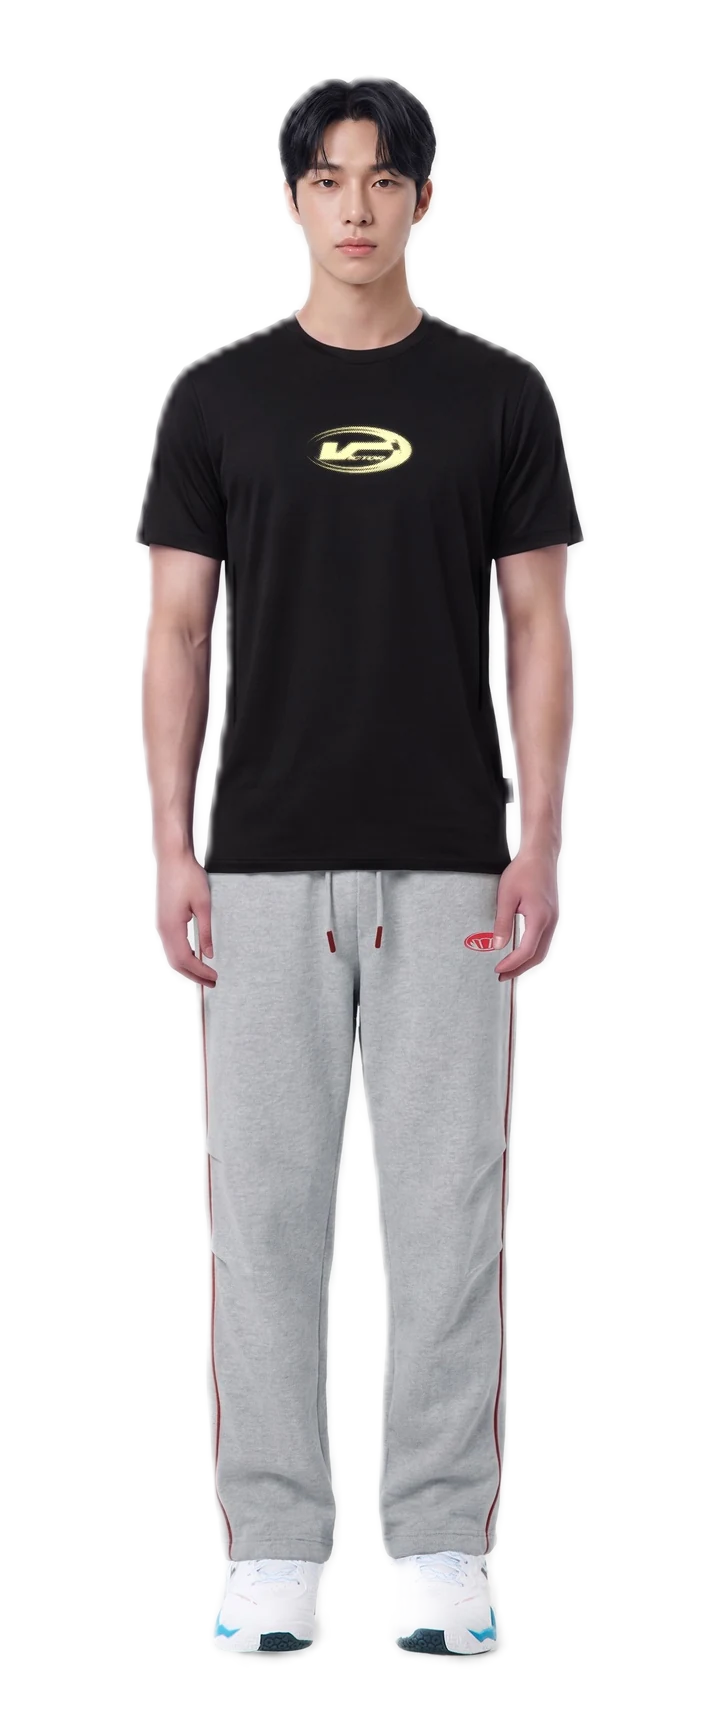
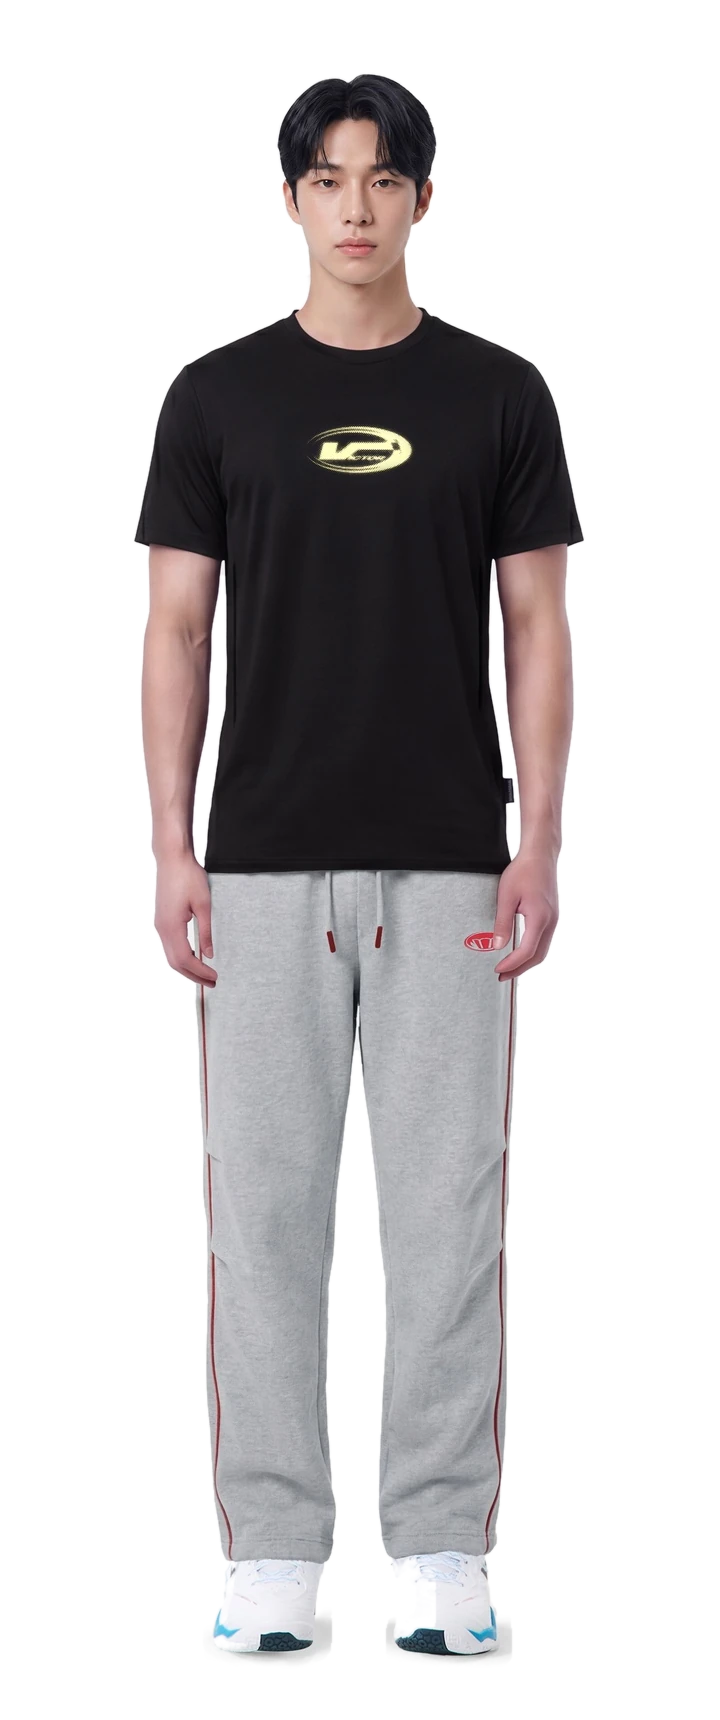
단체복: 룩 사진 가장자리 원본 해상도로 다시 따기(어깨 자글거림 제거), 머리 고정은 얼굴 주변 타원만
Claude-Session: https://claude.ai/code/session_013Nwr6bVcfqqiCbu23HBSRs

diff --git a/victor-teamwear.js b/victor-teamwear.js
@@ -6,7 +6,7 @@
 (function () {
   'use strict';
   if (window.VictorTeamwear) return;
-  const VERSION = '20261123-tw4';
+  const VERSION = '20261123-tw5';
   const SCRIPT = document.currentScript;
   const BASE = SCRIPT && SCRIPT.src ? new URL('.', SCRIPT.src).href : location.href;
   const W = 1080, H = 1350;                                   // 결과 이미지 4:5 (SNS·카톡 공유용)
@@ -230,13 +230,16 @@
       }
       const hy = (CV.headY || {})[g];
       if (hy && A.id !== ref.id) {
-        const h = document.createElement('canvas'); h.width = cw; h.height = hy + 12; const hx = h.getContext('2d');
-        hx.drawImage(ir, 0, 0, cw, hy + 12, 0, 0, cw, hy + 12);
-        const gr = hx.createLinearGradient(0, hy - 22, 0, hy + 10); gr.addColorStop(0, 'rgba(0,0,0,1)'); gr.addColorStop(1, 'rgba(0,0,0,0)');
-        hx.globalCompositeOperation = 'destination-in'; hx.fillStyle = gr; hx.fillRect(0, 0, cw, hy + 12);
-        x.globalCompositeOperation = 'destination-out'; const er = x.createLinearGradient(0, hy - 22, 0, hy + 10);
-        er.addColorStop(0, 'rgba(0,0,0,1)'); er.addColorStop(1, 'rgba(0,0,0,0)'); x.fillStyle = er; x.fillRect(0, 0, cw, hy + 10);
-        x.globalCompositeOperation = 'source-over'; x.drawImage(h, 0, 0);
+        // 머리·얼굴만 기준 룩에서 가져옴: 가운데 타원 모양으로 부드럽게 → 어깨선은 원래 사진 그대로 (어깨 자글거림 방지)
+        const hw = cw * 0.20, cx = cw / 2, top = 0;
+        const h = document.createElement('canvas'); h.width = cw; h.height = hy + 30; const hx = h.getContext('2d');
+        hx.drawImage(ir, 0, 0, cw, hy + 30, 0, 0, cw, hy + 30);
+        const m = document.createElement('canvas'); m.width = cw; m.height = hy + 30; const mx = m.getContext('2d');
+        mx.filter = 'blur(10px)'; mx.fillStyle = '#000';
+        mx.beginPath(); mx.ellipse(cx, (top + hy) / 2, hw, (hy - top) / 2 + 6, 0, 0, Math.PI * 2); mx.fill();
+        hx.globalCompositeOperation = 'destination-in'; hx.drawImage(m, 0, 0);
+        x.save(); x.globalCompositeOperation = 'destination-out'; x.drawImage(m, 0, 0); x.restore();
+        x.drawImage(h, 0, 0);
       }
       mix.set(key, c); return c;
     }

diff --git a/tools/make_looks_matte.py b/tools/make_looks_matte.py
@@ -1,0 +1,26 @@
+import sys,json,numpy as np
+from PIL import Image, ImageFilter
+d,out=sys.argv[1:3]
+M=json.load(open(f'{out}/meta.json'))
+def blur(a,r): return np.array(Image.fromarray(a).filter(ImageFilter.GaussianBlur(r)))
+for f in ['f1','f2','f3','m1','m2','m3']:
+    im=np.array(Image.open(f'{d}/{f}.jpg').convert('RGB')).astype(float); H,W,_=im.shape
+    bgc=np.load(f'{d}/{f}_bg.npy')
+    person=(1-bgc)>0.5
+    pm=Image.fromarray((person*255).astype('uint8'))
+    outer=np.array(pm.filter(ImageFilter.MaxFilter(25)))>0          # 사람 주변 넉넉히
+    inner=np.array(pm.filter(ImageFilter.MinFilter(15)))>0          # 확실히 사람 안쪽
+    # 배경색: 줄마다 양 끝 배경 픽셀의 중간값 → 위아래 조명 차이 반영
+    bgrow=np.zeros((H,3))
+    for y in range(H):
+        px=np.concatenate([im[y,:60],im[y,-60:]]); bgrow[y]=np.median(px,0)
+    dist=np.sqrt(((im-bgrow[:,None,:])**2).sum(2))
+    a=np.clip((dist-6)/22,0,1)                                      # 배경과 차이가 클수록 불투명
+    a[~outer]=0; a[inner]=1
+    a8=(a*255).astype('uint8')
+    a8=np.array(Image.fromarray(a8).filter(ImageFilter.MedianFilter(3)).filter(ImageFilter.GaussianBlur(0.7)))
+    rgba=np.dstack([im.astype('uint8'),a8])
+    cx=M[f]['cx']; Wc=720; x0=cx-Wc//2
+    crop=Image.fromarray(rgba,'RGBA').crop((x0,60,x0+Wc,1780))
+    crop.save(f'{out}/{f}.webp','WEBP',quality=90,method=6)
+    print(f,'ok')
